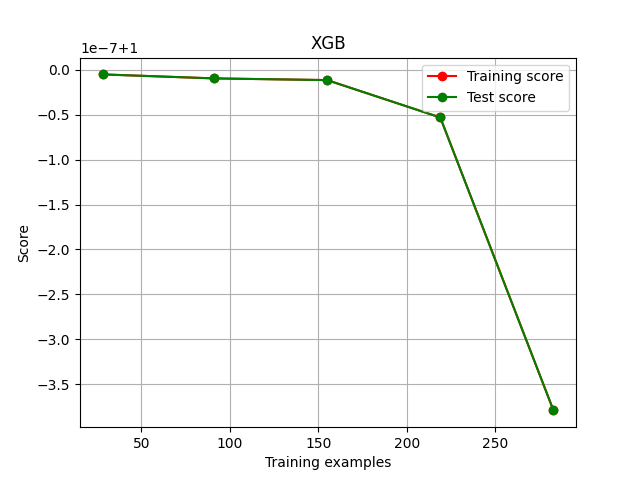
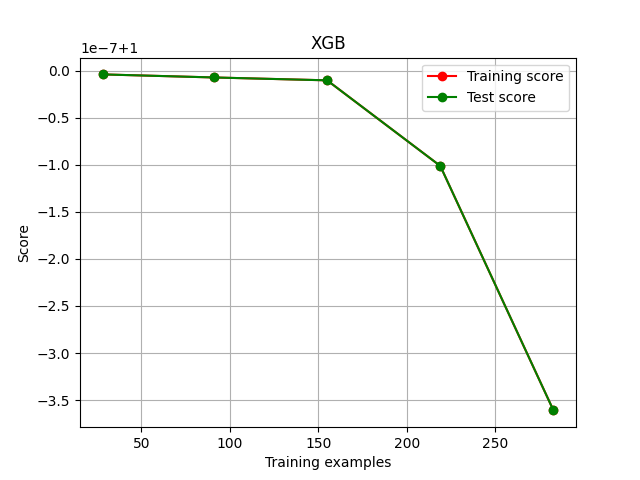
update xgb code

diff --git a/code/xgb.py b/code/xgb.py
@@ -1,3 +1,5 @@
+# https://blog.csdn.net/luanfenlian0992/article/details/106448500
+
 from xgboost import XGBRegressor as XGBR
 from sklearn.ensemble import RandomForestRegressor as RFR
 from sklearn.linear_model import LinearRegression as LinearR
@@ -61,4 +63,70 @@ def plot_learning_curve(estimator, title, X, y, ax=None, ylim=None, cv=None, n_j
 cv = KFold(n_splits=5, shuffle=True, random_state=42)
 plot_learning_curve(XGBR(n_estimators=100, random_state=420), "XGB", Xtrain, Ytrain, ax=None, cv=cv)
 plt.savefig("./xgb.png")
+plt.show()
+
+
+# axisx = range(10,1010,50)
+# rs = []
+# for i in axisx:
+#     reg = XGBR(n_estimators=i,random_state=420)
+# rs.append(CVS(reg,Xtrain,Ytrain,cv=cv).mean())
+# print(axisx[rs.index(max(rs))],max(rs)) 
+# plt.figure(figsize=(20,5)) 
+# plt.plot(axisx,rs,c="red",label="XGB") 
+# plt.legend()
+# plt.savefig("xgb2.png")
+# plt.show()
+
+axisx = range(50,1050,50)
+rs = []
+var = []
+ge = []
+for i in axisx:
+	reg = XGBR(n_estimators=i,random_state=420) 
+	cvresult = CVS(reg,Xtrain,Ytrain,cv=cv) #记录1-偏差
+	rs.append(cvresult.mean())
+	#记录方差
+	var.append(cvresult.var())
+	#计算泛化误差的可控部分
+	ge.append((1 - cvresult.mean())**2+cvresult.var())
+#打印R2最高所对应的参数取值，并打印这个参数下的方差
+print(axisx[rs.index(max(rs))],max(rs),var[rs.index(max(rs))]) 
+#打印方差最低时对应的参数取值，并打印这个参数下的R2 
+print(axisx[var.index(min(var))],rs[var.index(min(var))],min(var)) 
+#打印泛化误差可控部分的参数取值，并打印这个参数下的R2，方差以及泛化误差的可控部分
+print(axisx[ge.index(min(ge))],rs[ge.index(min(ge))],var[ge.index(min(ge))],min(ge))
+plt.figure(figsize=(20,5))
+plt.plot(axisx,rs,c="red",label="XGB")
+plt.legend()
+plt.savefig("xgb2.png")
+plt.show()
+
+
+axisx = range(100,300,10)
+rs = []
+var = []
+ge = []
+for i in axisx:
+	reg = XGBR(n_estimators=i,random_state=420) 
+	cvresult = CVS(reg,Xtrain,Ytrain,cv=cv) rs.append(cvresult.mean()) 	
+	var.append(cvresult.var())
+	ge.append((1 - cvresult.mean())**2+cvresult.var())
+print(axisx[rs.index(max(rs))],max(rs),var[rs.index(max(rs))]) 
+print(axisx[var.index(min(var))],rs[var.index(min(var))],min(var)) 
+print(axisx[ge.index(min(ge))],rs[ge.index(min(ge))],var[ge.index(min(ge))],min(ge)) 
+rs = np.array(rs)
+var = np.array(var)*0.01 
+plt.figure(figsize=(20,5)) 
+plt.plot(axisx,rs,c="black",label="XGB") 
+#添加方差线 
+plt.plot(axisx,rs+var,c="red",linestyle='-.') 
+plt.plot(axisx,rs-var,c="red",linestyle='-.') 
+plt.legend()
+plt.show()
+
+#看看泛化误差的可控部分如何? 
+plt.figure(figsize=(20,5)) 
+plt.plot(axisx,ge,c="gray",linestyle='-.') 
+plt.savefig("xgb3.png")
 plt.show()
